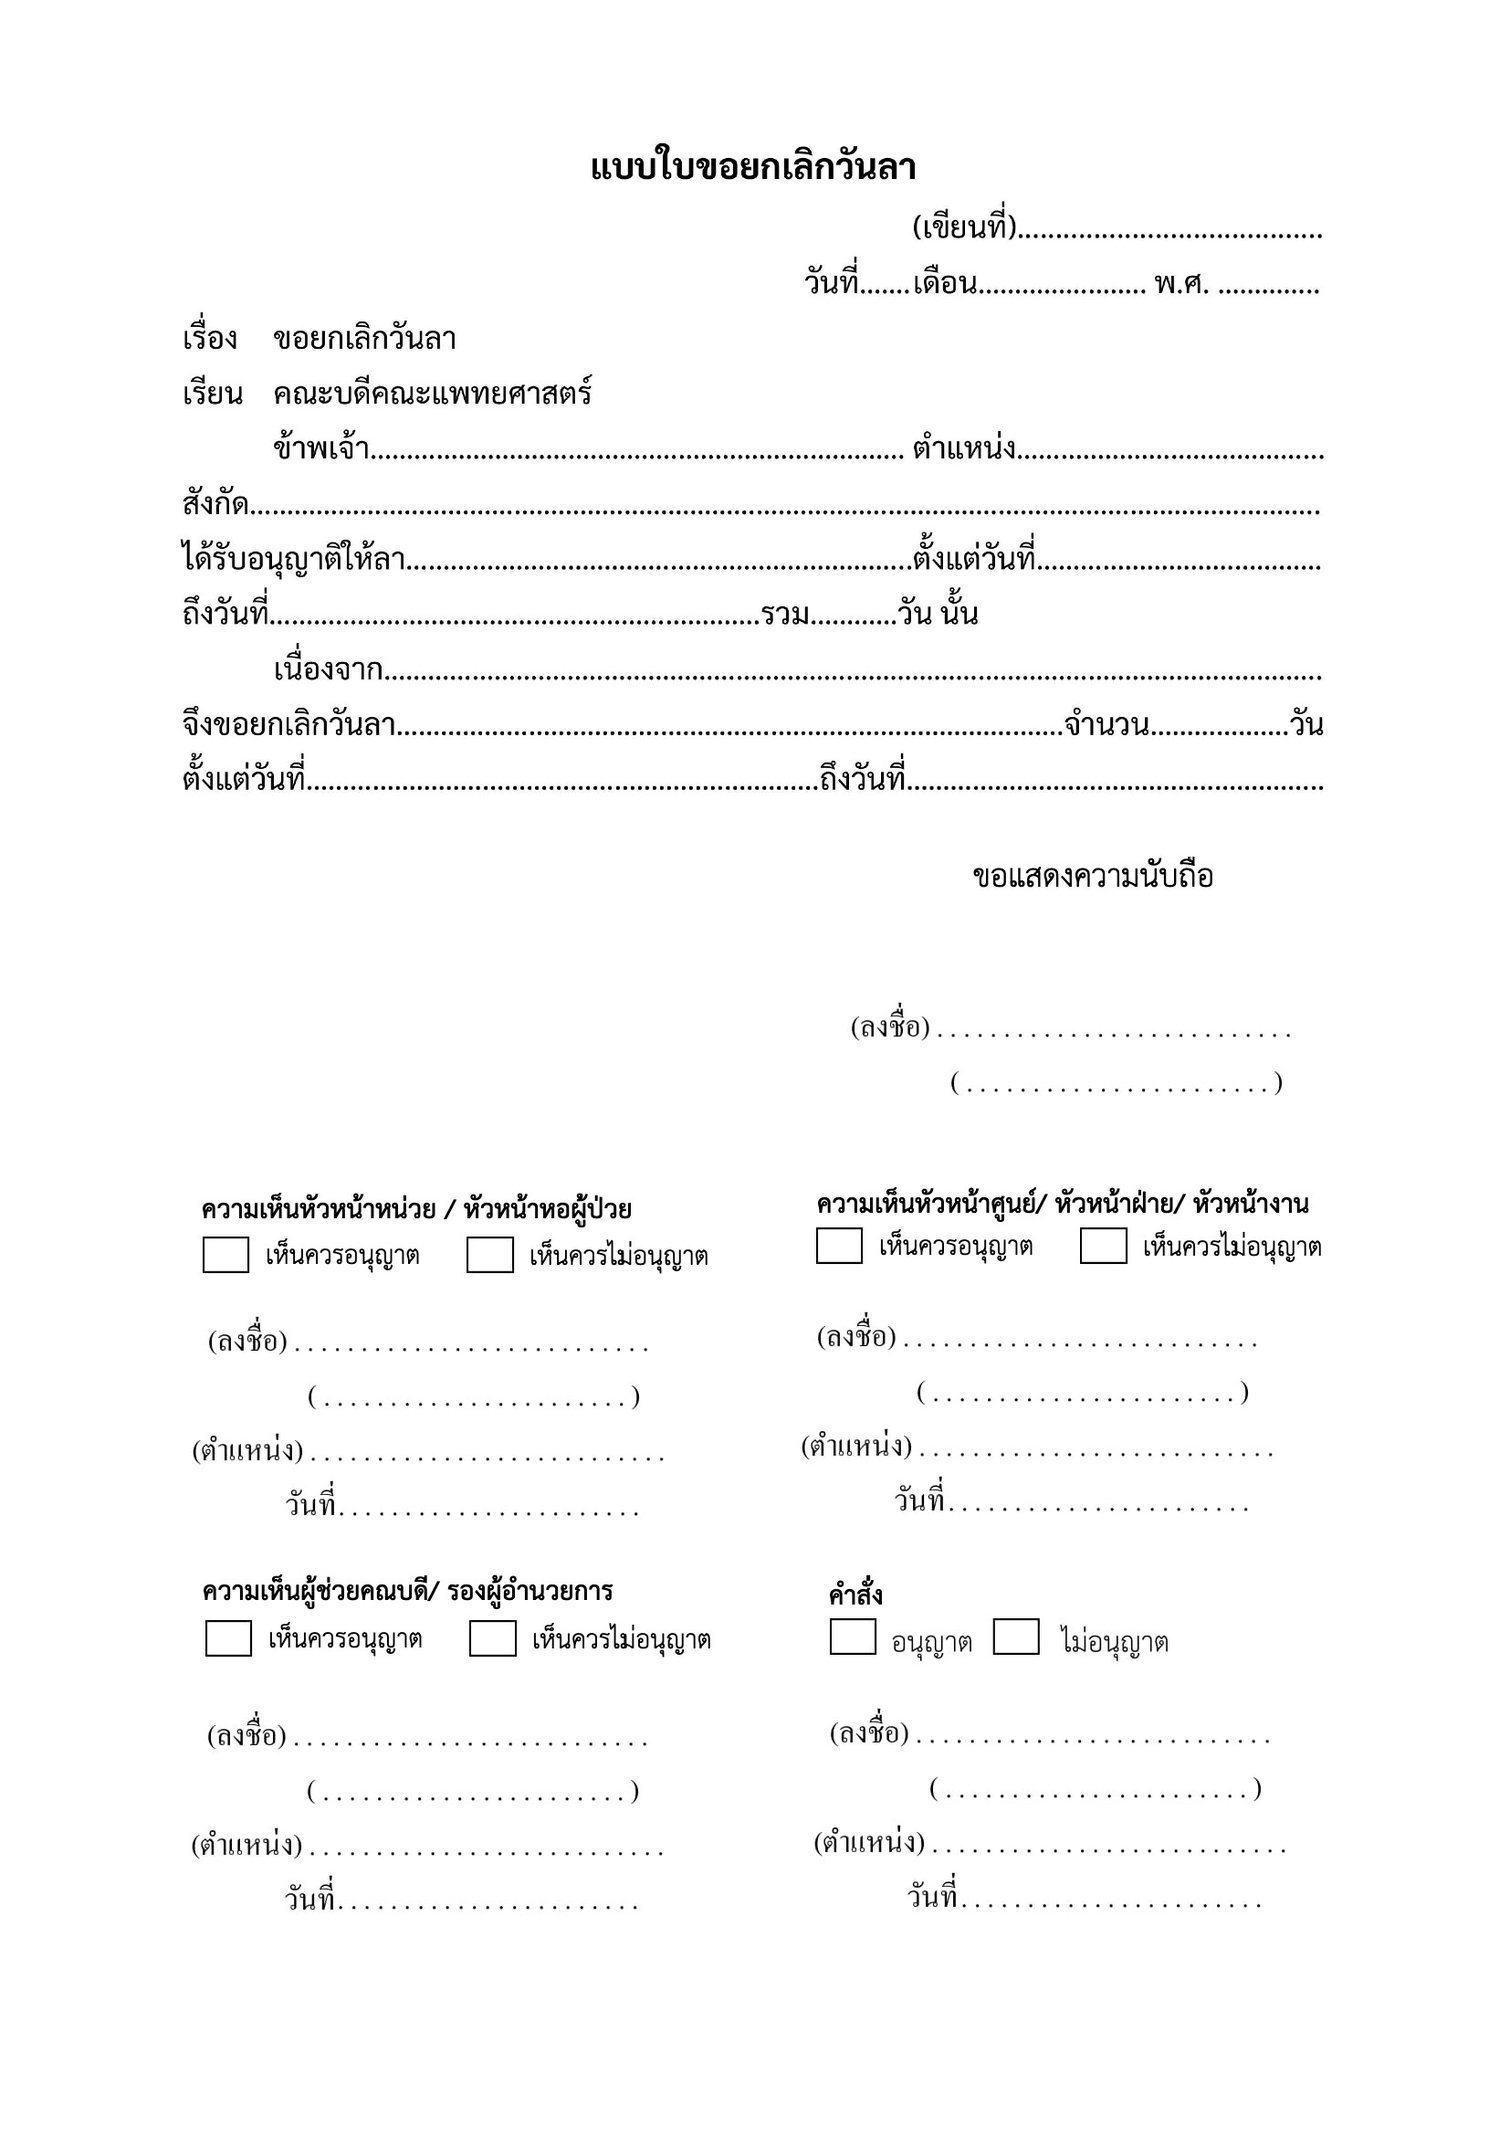
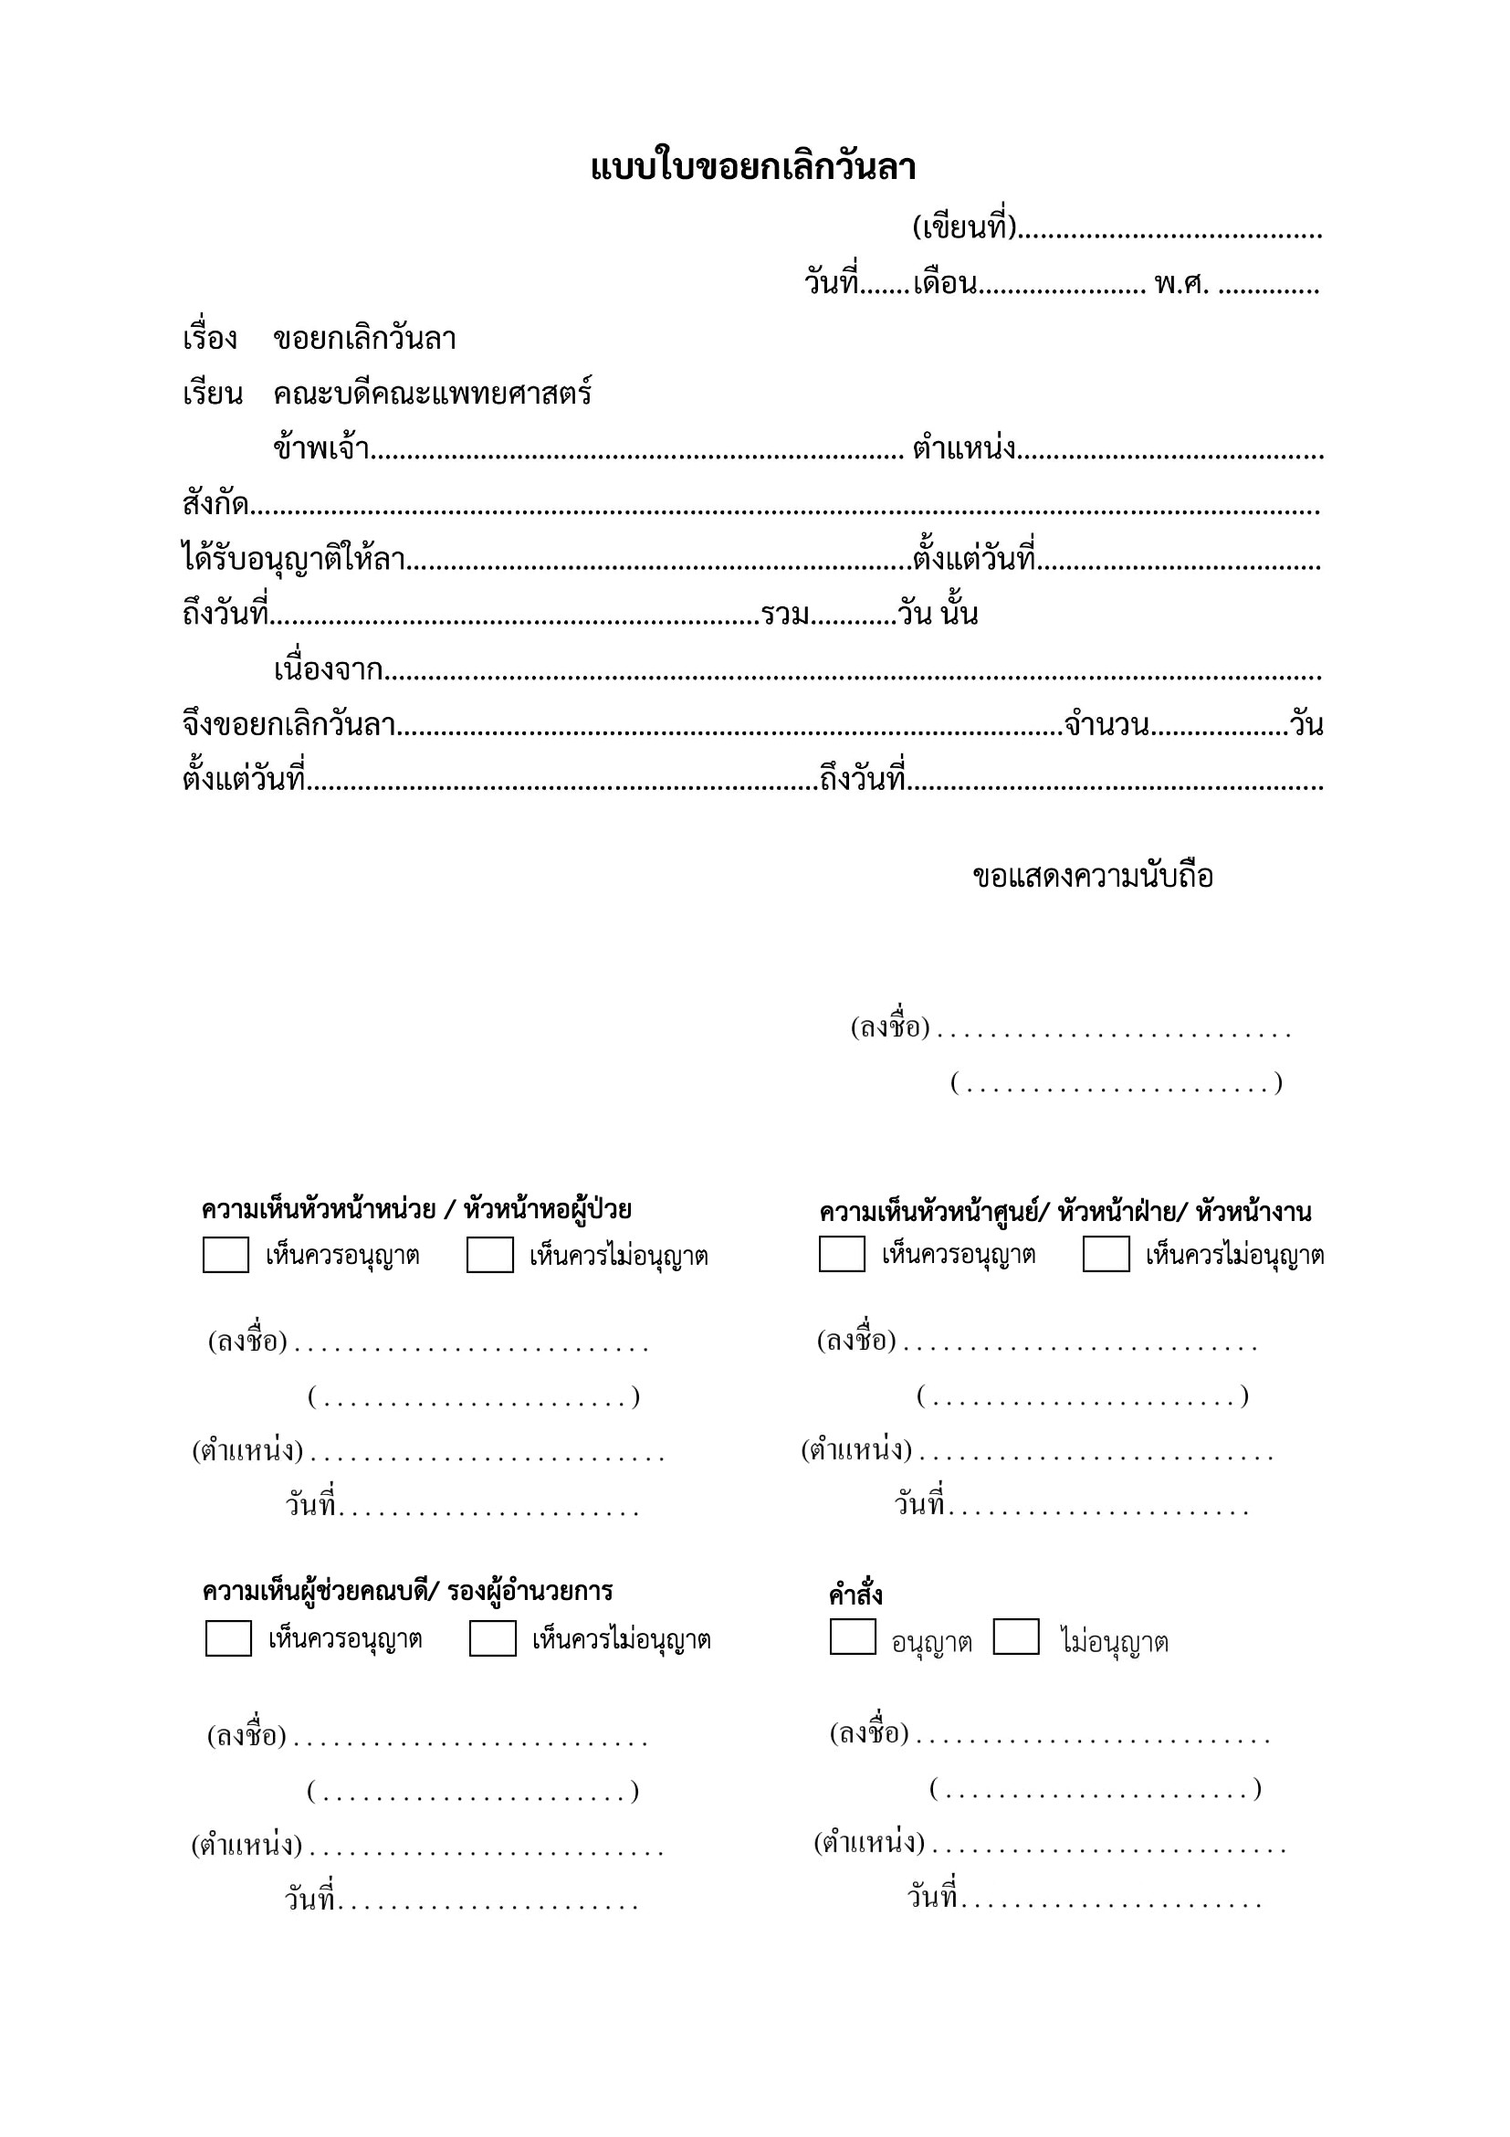
data in cancel_leave

Changed region(s): [[0.5242, 0.5615, 0.8942, 0.5927], [0.5242, 0.6239, 0.6167, 0.7175]]

diff --git a/application/modules/leave/views/document.php b/application/modules/leave/views/document.php
@@ -321,8 +321,8 @@
       <span style="top: 77%;left: 60%;"><?php echo isset($data['signature_head_dept_date']) && trim($data['signature_head_dept_date'])!=''?date('d/m/',strtotime($data['signature_head_dept_date'])).(date("Y",strtotime($data['signature_head_dept_date']))+543):''; ?></span>
 
 
-      <span style="top: 83%;left: 32%;"><?php echo isset($data['supervisor_approve']) && intval($data['supervisor_approve'])==2?'&#10003;':''; ?></span>
-      <span style="top: 83%;left: 15%;"><?php echo isset($data['supervisor_approve']) && intval($data['supervisor_approve'])==1?'&#10003;':''; ?></span>
+      <span style="top: 83%;left: 32%;"><?php echo isset($data['supervisor_approve']) && intval($data['supervisor_approve'])==1?'&#10003;':''; ?></span>
+      <span style="top: 83%;left: 15%;"><?php echo isset($data['supervisor_approve']) && intval($data['supervisor_approve'])==2?'&#10003;':''; ?></span>
       <span style="top: 86.4%;left: 21%;"><img src="<?php echo isset($data['supervisor_personnel_id']) && intval($data['supervisor_personnel_id'])!=0 && $data['signature_supervisor_date']!='' && isset($personnel_list['data'][$data['supervisor_personnel_id']])?$personnel_list['data'][$data['supervisor_personnel_id']]['signature']:base_url(load_file('assets/img/emp.png'));?>" class="img-sig"/></span>
       <span style="top: 88.8%;left: 21%;">
         <?php 
@@ -1128,61 +1128,104 @@
   <?php if(isset($data['status']) && intval($data['status'])==98){ ?>
     <div class="col-lg-12 document">
 
-      <?php /*if(isset($data['leave_type_id']) && intval($data['leave_type_id'])!=7){ ?>
-        <span style="bottom: 20%;left: 80%;"><div id="qrcode2"></div><div class="leave_no"><?php echo $data['leave_no']; ?></div></span>
-      <?php }else{ ?>
-        <span style="top: 4.2%;left: 13.6%;"><div id="qrcode2"></div><div class="leave_no"><?php echo $data['leave_no']; ?></div></span>
-      <?php }*/ ?>
+      <span style="top: 4.2%;left: 13.6%;"><div id="qrcode3"></div><div class="leave_no"><?php echo $data['leave_no']; ?></div></span>
 
-      <span style="top: 13%;left: 16%;">99*</span>
-      <span style="top: 13%;left: 16%;">99*</span>
-      <span style="top: 13%;left: 16%;">99*</span>
-      <span style="top: 13%;left: 16%;">99*</span>
+      <span style="top: 9%;left: 68%;"><?php echo isset($data['write_at'])?$data['write_at']:'-';?></span>
+      <span style="top: 11.5%;left: 58%;"><?php echo date('d',strtotime($data['cancel_date']));?></span>
+      <span style="top: 11.5%;left: 65%;"><?php echo date_th($data['cancel_date'],9);?></span>
+      <span style="top: 11.5%;left: 80%;"><?php echo date_th($data['cancel_date'],10);?></span>
 
-      <span style="top: 13%;left: 16%;">99*</span>
-      <span style="top: 13%;left: 16%;">99*</span>
-      <span style="top: 13%;left: 16%;">99*</span>
-      <span style="top: 13%;left: 16%;">99*</span>
-      <span style="top: 13%;left: 16%;">99*</span>
-      <span style="top: 13%;left: 16%;">99*</span>
-      <span style="top: 13%;left: 16%;">99*</span>
+      <span style="top: 19.2%;left: 26%;">
+        <?php 
+          echo isset($personnel['title'])?$personnel['title']:'-'; 
+          echo isset($personnel['name_th'])?$personnel['name_th'].' ':'-'; 
+          echo isset($personnel['surname_th'])?$personnel['surname_th']:'-'; 
+        ?>
+      </span>
+      <span style="top: 19.2%;left: 68%;"><?php echo isset($personnel['position_name'])?$personnel['position_name']:'-';?></span>
+      <span style="top: 21.8%;left: 19%;">คณะแพทยศาสตร์</span>
+      <span style="top: 24.5%;left: 28%;"><?php echo isset($data['leave_type_id']) && isset($leave_type[$data['leave_type_id']])?$leave_type[$data['leave_type_id']]['leave_name']:' - ';?></span>
+      <span style="top: 24.5%;left: 69%;"><?php echo date_th($data['period_start'],2);?></span>
+      <span style="top: 27%;left: 20%;"><?php echo date_th($data['period_end'],2);?></span>
+      <span style="top: 27%;left: 55%;"><?php echo isset($data['period_count'])?floatval($data['period_count']):'0';?></span>
 
-      <span style="top: 13%;left: 16%;">99*</span>
-      <span style="top: 13%;left: 16%;">99*</span>
-      <span style="top: 13%;left: 16%;">99*</span>
-      <span style="top: 13%;left: 16%;">99*</span>
-      <span style="top: 13%;left: 16%;">99*</span>
+      <span style="top: 29.5%;left: 27%;"><?php echo isset($data['cancel_detail'])?$data['cancel_detail']:'-';?></span>
+      <span style="top: 32%;left: 28%;"><?php echo isset($data['leave_type_id']) && isset($leave_type[$data['leave_type_id']])?$leave_type[$data['leave_type_id']]['leave_name']:' - ';?></span>
+      <span style="top: 32%;left: 78%;"><?php echo isset($data['period_count'])?floatval($data['period_count']):'0';?></span>
+      <span style="top: 34.8%;left: 23%;"><?php echo date_th($data['period_start'],2);?></span>
+      <span style="top: 34.8%;left: 61%;"><?php echo date_th($data['period_end'],2);?></span>
       
-      <span style="top: 13%;left: 16%;">99*</span>
-      <span style="top: 13%;left: 16%;">99*</span>
-      <span style="top: 13%;left: 16%;">99*</span>
-      <span style="top: 13%;left: 16%;">99*</span>
-      <span style="top: 13%;left: 16%;">99*</span>
-      <span style="top: 13%;left: 16%;">99*</span>
-      <span style="top: 13%;left: 16%;">99*</span>
-      <span style="top: 13%;left: 16%;">99*</span>
-      <span style="top: 13%;left: 16%;">99*</span>
-      <span style="top: 13%;left: 16%;">99*</span>
-      <span style="top: 13%;left: 16%;">99*</span>
-      <span style="top: 13%;left: 16%;">99*</span>
-      <span style="top: 13%;left: 16%;">99*</span>
-      <span style="top: 13%;left: 16%;">99*</span>
-      <span style="top: 13%;left: 16%;">99*</span>
-      <span style="top: 13%;left: 16%;">99*</span>
-      <span style="top: 13%;left: 16%;">99*</span>
-      <span style="top: 13%;left: 16%;">99*</span>
-      <span style="top: 13%;left: 16%;">99*</span>
-      <span style="top: 13%;left: 16%;">99*</span>
-      <span style="top: 13%;left: 16%;">99*</span>
-      <span style="top: 13%;left: 16%;">99*</span>
-      <span style="top: 13%;left: 16%;">99*</span>
-      <span style="top: 13%;left: 16%;">99*</span>
-      <span style="top: 13%;left: 16%;">99*</span>
-      <span style="top: 13%;left: 16%;">99*</span>
+      <span style="top: 46.2%;left: 55%;"><img class="img-sig" src="<?php echo isset($personnel['data']['signature']) && trim($personnel['data']['signature'])!=''?$personnel['data']['signature']:base_url(load_file('assets/img/emp.png'));?>"/></span>
+      <span style="top: 49%;left: 64%;">
+        <?php 
+          echo isset($personnel['title'])?$personnel['title']:'-'; 
+          echo isset($personnel['name_th'])?$personnel['name_th'].' ':'-'; 
+          echo isset($personnel['surname_th'])?$personnel['surname_th']:'-'; 
+        ?>
+      </span>
+
+      <span style="top: 57.5%;left: 15%;"><?php echo isset($data['head_unit_approve_cancel']) && intval($data['head_unit_approve_cancel'])==1?'&#10003;':''; ?></span>
+      <span style="top: 57.5%;left: 32%;"><?php echo isset($data['head_unit_approve_cancel']) && intval($data['head_unit_approve_cancel'])==2?'&#10003;':''; ?></span>
+      <span style="top: 61%;left: 15.5%;"><img src="<?php echo isset($data['head_unit_personnel_id']) && intval($data['head_unit_personnel_id'])!=0 && $data['signature_head_unit_cancel_date']!='' && isset($personnel_list['data'][$data['head_unit_personnel_id']])?$personnel_list['data'][$data['head_unit_personnel_id']]['signature']:base_url(load_file('assets/img/emp.png'));?>" class="img-sig"/></span>
+      <span style="top: 63.5%;left: 22.5%;">
+        <?php 
+          if(isset($data['head_unit_personnel_id']) && intval($data['head_unit_personnel_id'])!=0 && isset($personnel_list['data'][$data['head_unit_personnel_id']])){
+            echo $personnel_list['data'][$data['head_unit_personnel_id']]['title']; 
+            echo $personnel_list['data'][$data['head_unit_personnel_id']]['name_th']; 
+            echo $personnel_list['data'][$data['head_unit_personnel_id']]['surname_th'];
+          }
+        ?>
+      </span>
+      <span style="top: 66.2%;left: 22.5%;"><?php echo isset($data['head_unit_position']) && trim($data['head_unit_position'])!=''?$data['head_unit_position']:''; ?></span>
+      <span style="top: 68.5%;left: 23.5%;"><?php echo isset($data['signature_head_unit_cancel_date']) && trim($data['signature_head_unit_cancel_date'])!=''?date('d/m/',strtotime($data['signature_head_unit_cancel_date'])).(date("Y",strtotime($data['signature_head_unit_cancel_date']))+543):''; ?></span>
+
+      <span style="top: 57.5%;left: 55%;"><?php echo isset($data['head_dept_approve_cancel']) && intval($data['head_dept_approve_cancel'])==1?'&#10003;':''; ?></span>
+      <span style="top: 57.5%;left: 72%;"><?php echo isset($data['head_dept_approve_cancel']) && intval($data['head_dept_approve_cancel'])==2?'&#10003;':''; ?></span>
+      <span style="top: 60.8%;left: 55%;"><img src="<?php echo isset($data['head_dept_personnel_id']) && intval($data['head_dept_personnel_id'])!=0 && $data['signature_head_dept_cancel_date']!='' && isset($personnel_list['data'][$data['head_dept_personnel_id']])?$personnel_list['data'][$data['head_dept_personnel_id']]['signature']:base_url(load_file('assets/img/emp.png'));?>" class="img-sig"/></span>
+      <span style="top: 63.5%;left: 63%;">
+        <?php 
+          if(isset($data['head_dept_personnel_id']) && intval($data['head_dept_personnel_id'])!=0 && isset($personnel_list['data'][$data['head_dept_personnel_id']])){
+            echo $personnel_list['data'][$data['head_dept_personnel_id']]['title']; 
+            echo $personnel_list['data'][$data['head_dept_personnel_id']]['name_th']; 
+            echo $personnel_list['data'][$data['head_dept_personnel_id']]['surname_th'];
+          }
+        ?>
+      </span>
+      <span style="top: 66%;left: 63%;"><?php echo isset($data['head_dept_position']) && trim($data['head_dept_position'])!=''?$data['head_dept_position']:''; ?></span>
+      <span style="top: 68.5%;left: 63%;"><?php echo isset($data['signature_head_dept_cancel_date']) && trim($data['signature_head_dept_cancel_date'])!=''?date('d/m/',strtotime($data['signature_head_dept_cancel_date'])).(date("Y",strtotime($data['signature_head_dept_cancel_date']))+543):''; ?></span>
+
+      <span style="top: 75.2%;left: 15%;"><?php echo isset($data['supervisor_approve_cancel']) && intval($data['supervisor_approve_cancel'])==1?'&#10003;':''; ?></span>
+      <span style="top: 75.2%;left: 32%;"><?php echo isset($data['supervisor_approve_cancel']) && intval($data['supervisor_approve_cancel'])==2?'&#10003;':''; ?></span>
+      <span style="top: 79.5%;left: 15.5%;"><img src="<?php echo isset($data['supervisor_personnel_id']) && intval($data['supervisor_personnel_id'])!=0 && $data['signature_supervisor_cancel_date']!='' && isset($personnel_list['data'][$data['supervisor_personnel_id']])?$personnel_list['data'][$data['supervisor_personnel_id']]['signature']:base_url(load_file('assets/img/emp.png'));?>" class="img-sig"/></span>
+      <span style="top: 82%;left: 22.5%;">
+        <?php 
+          if(isset($data['supervisor_personnel_id']) && intval($data['supervisor_personnel_id'])!=0 && isset($personnel_list['data'][$data['head_dept_personnel_id']])){
+            echo $personnel_list['data'][$data['supervisor_personnel_id']]['title']; 
+            echo $personnel_list['data'][$data['supervisor_personnel_id']]['name_th']; 
+            echo $personnel_list['data'][$data['supervisor_personnel_id']]['surname_th'];
+          }
+        ?>
+      </span>
+      <span style="top: 84.5%;left: 22.5%;"><?php echo isset($data['supervisor_position']) && trim($data['supervisor_position'])!=''?$data['supervisor_position']:''; ?></span>
+      <span style="top: 87.2%;left: 23.5%;"><?php echo isset($data['signature_supervisor_cancel_date']) && trim($data['signature_supervisor_cancel_date'])!=''?date('d/m/',strtotime($data['signature_supervisor_cancel_date'])).(date("Y",strtotime($data['signature_supervisor_cancel_date']))+543):''; ?></span>
+
+      <span style="top: 75.2%;left: 55.5%;"><?php echo isset($data['deputy_dean_approve_cancel']) && intval($data['deputy_dean_approve_cancel'])==1?'&#10003;':''; ?></span>
+      <span style="top: 75.2%;left: 66%;"><?php echo isset($data['deputy_dean_approve_cancel']) && intval($data['deputy_dean_approve_cancel'])==2?'&#10003;':''; ?></span>
+      <span style="top: 79.5%;left: 55%;"><img src="<?php echo isset($data['deputy_dean_personnel_id']) && intval($data['deputy_dean_personnel_id'])!=0 && $data['signature_deputy_dean_cancel_date']!='' && isset($personnel_list['data'][$data['deputy_dean_personnel_id']])?$personnel_list['data'][$data['deputy_dean_personnel_id']]['signature']:base_url(load_file('assets/img/emp.png'));?>" class="img-sig"/></span>
+      <span style="top: 82%;left: 63%;">
+        <?php 
+          if(isset($data['deputy_dean_personnel_id']) && intval($data['supervisor_personnel_id'])!=0 && isset($personnel_list['data'][$data['deputy_dean_personnel_id']])){
+            echo $personnel_list['data'][$data['deputy_dean_personnel_id']]['title']; 
+            echo $personnel_list['data'][$data['deputy_dean_personnel_id']]['name_th']; 
+            echo $personnel_list['data'][$data['deputy_dean_personnel_id']]['surname_th'];
+          }
+        ?>
+      </span>
+      <span style="top: 84.5%;left: 63%;"><?php echo isset($data['deputy_dean_position']) && trim($data['deputy_dean_position'])!=''?$data['deputy_dean_position']:''; ?></span>
+      <span style="top: 87.2%;left: 64%;"><?php echo isset($data['signature_deputy_dean_cancel_date']) && trim($data['signature_deputy_dean_cancel_date'])!=''?date('d/m/',strtotime($data['signature_deputy_dean_cancel_date'])).(date("Y",strtotime($data['signature_deputy_dean_cancel_date']))+543):''; ?></span>
 
 
       <img src="<?php echo base_url(load_file('document/leave/0.jpg'));?>" style="width:100%;">
     </div>
-
   <?php } ?>
 </div>

diff --git a/application/modules/leave/views/view_leave.php b/application/modules/leave/views/view_leave.php
@@ -367,9 +367,19 @@
                   });
 
                   var element = document.getElementById("qrcode2");
-
                   if(typeof(element) != 'undefined' && element != null){
                     var qrcode2 = new QRCode("qrcode2", {
+                      text: data.data.url,
+                      width: 300,
+                      height: 300,
+                      colorDark : "#000000",
+                      colorLight : "#ffffff",
+                      correctLevel : QRCode.CorrectLevel.H
+                    });
+                  }
+                  var element = document.getElementById("qrcode3");
+                  if(typeof(element) != 'undefined' && element != null){
+                    var qrcode3 = new QRCode("qrcode3", {
                       text: data.data.url,
                       width: 300,
                       height: 300,
